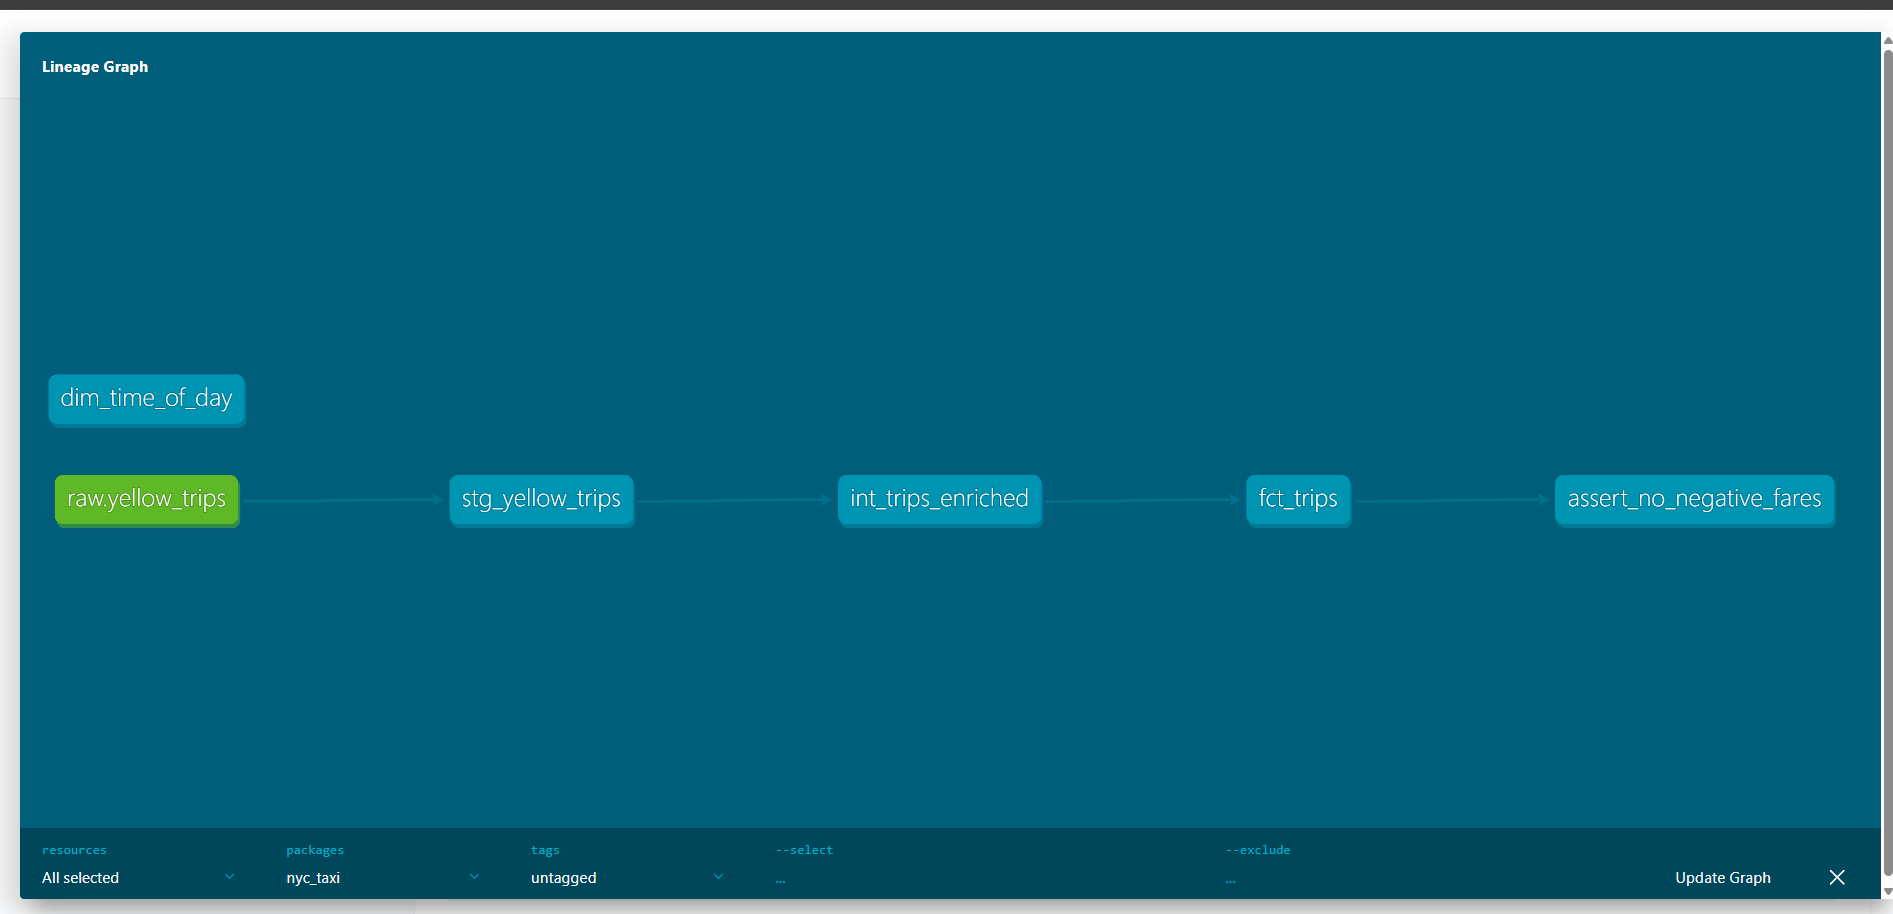
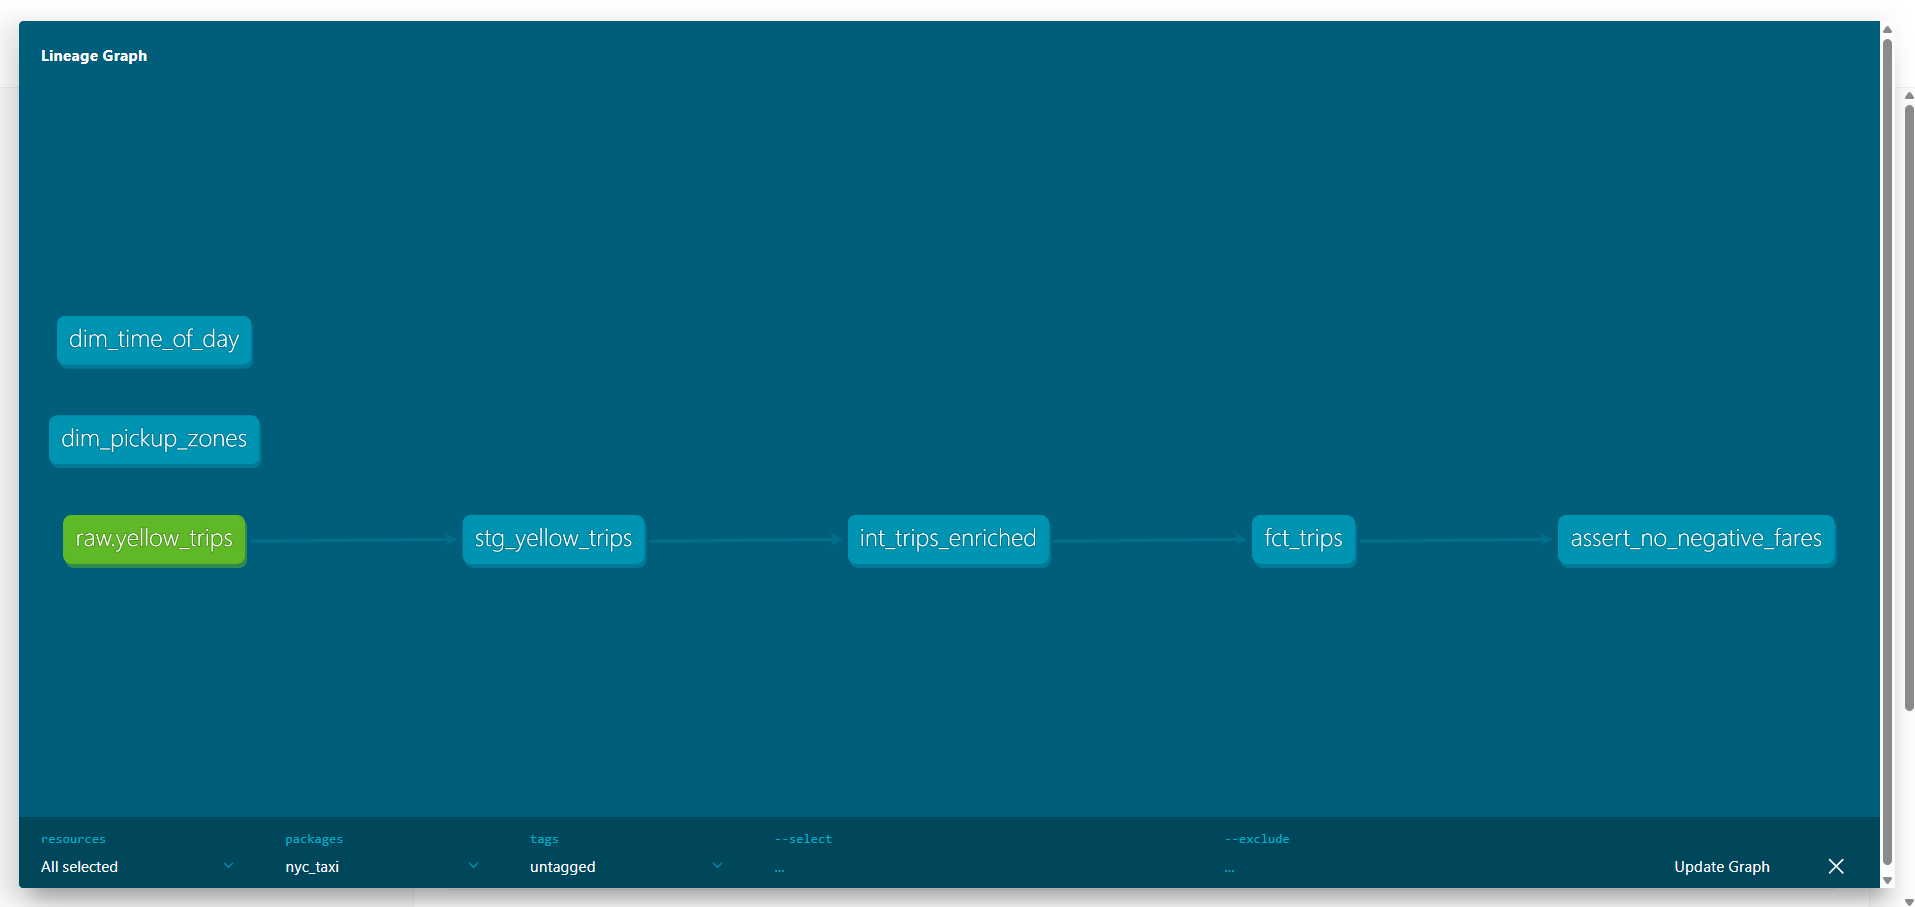
Update README with full lineage and dim_pickup_zones

diff --git a/README.md b/README.md
@@ -70,12 +70,15 @@ prefect deploy                # deploy to Prefect Cloud
 
 ## Data lineage
 
+![dbt lineage graph](docs/lineage.png)
+
 ```
 bigquery-public-data (source)
-    └── stg_yellow_trips          (staging)
-            └── int_trips_enriched    (intermediate)
-                    ├── fct_trips         (fact table)
-                    └── dim_pickup_zones  (dimension table)
+    └── stg_yellow_trips          (staging — Silver)
+            └── int_trips_enriched    (intermediate — Silver)
+                    ├── fct_trips             (fact table — Gold, 8.5M rows)
+                    ├── dim_time_of_day       (dimension — Gold, 5 rows)
+                    └── dim_pickup_zones      (dimension — Gold, 260 rows)
 ```
 
 ---
@@ -98,7 +101,3 @@ Ideas to go further and strengthen your portfolio:
 - Swap Prefect for Airflow (Astronomer free tier) to compare orchestrators
 - Add a Looker Studio dashboard connected to `fct_trips`
 - Implement CI with GitHub Actions running `dbt test` on pull requests
-
-## Data lineage
-
-![dbt lineage graph](docs/lineage.png)
